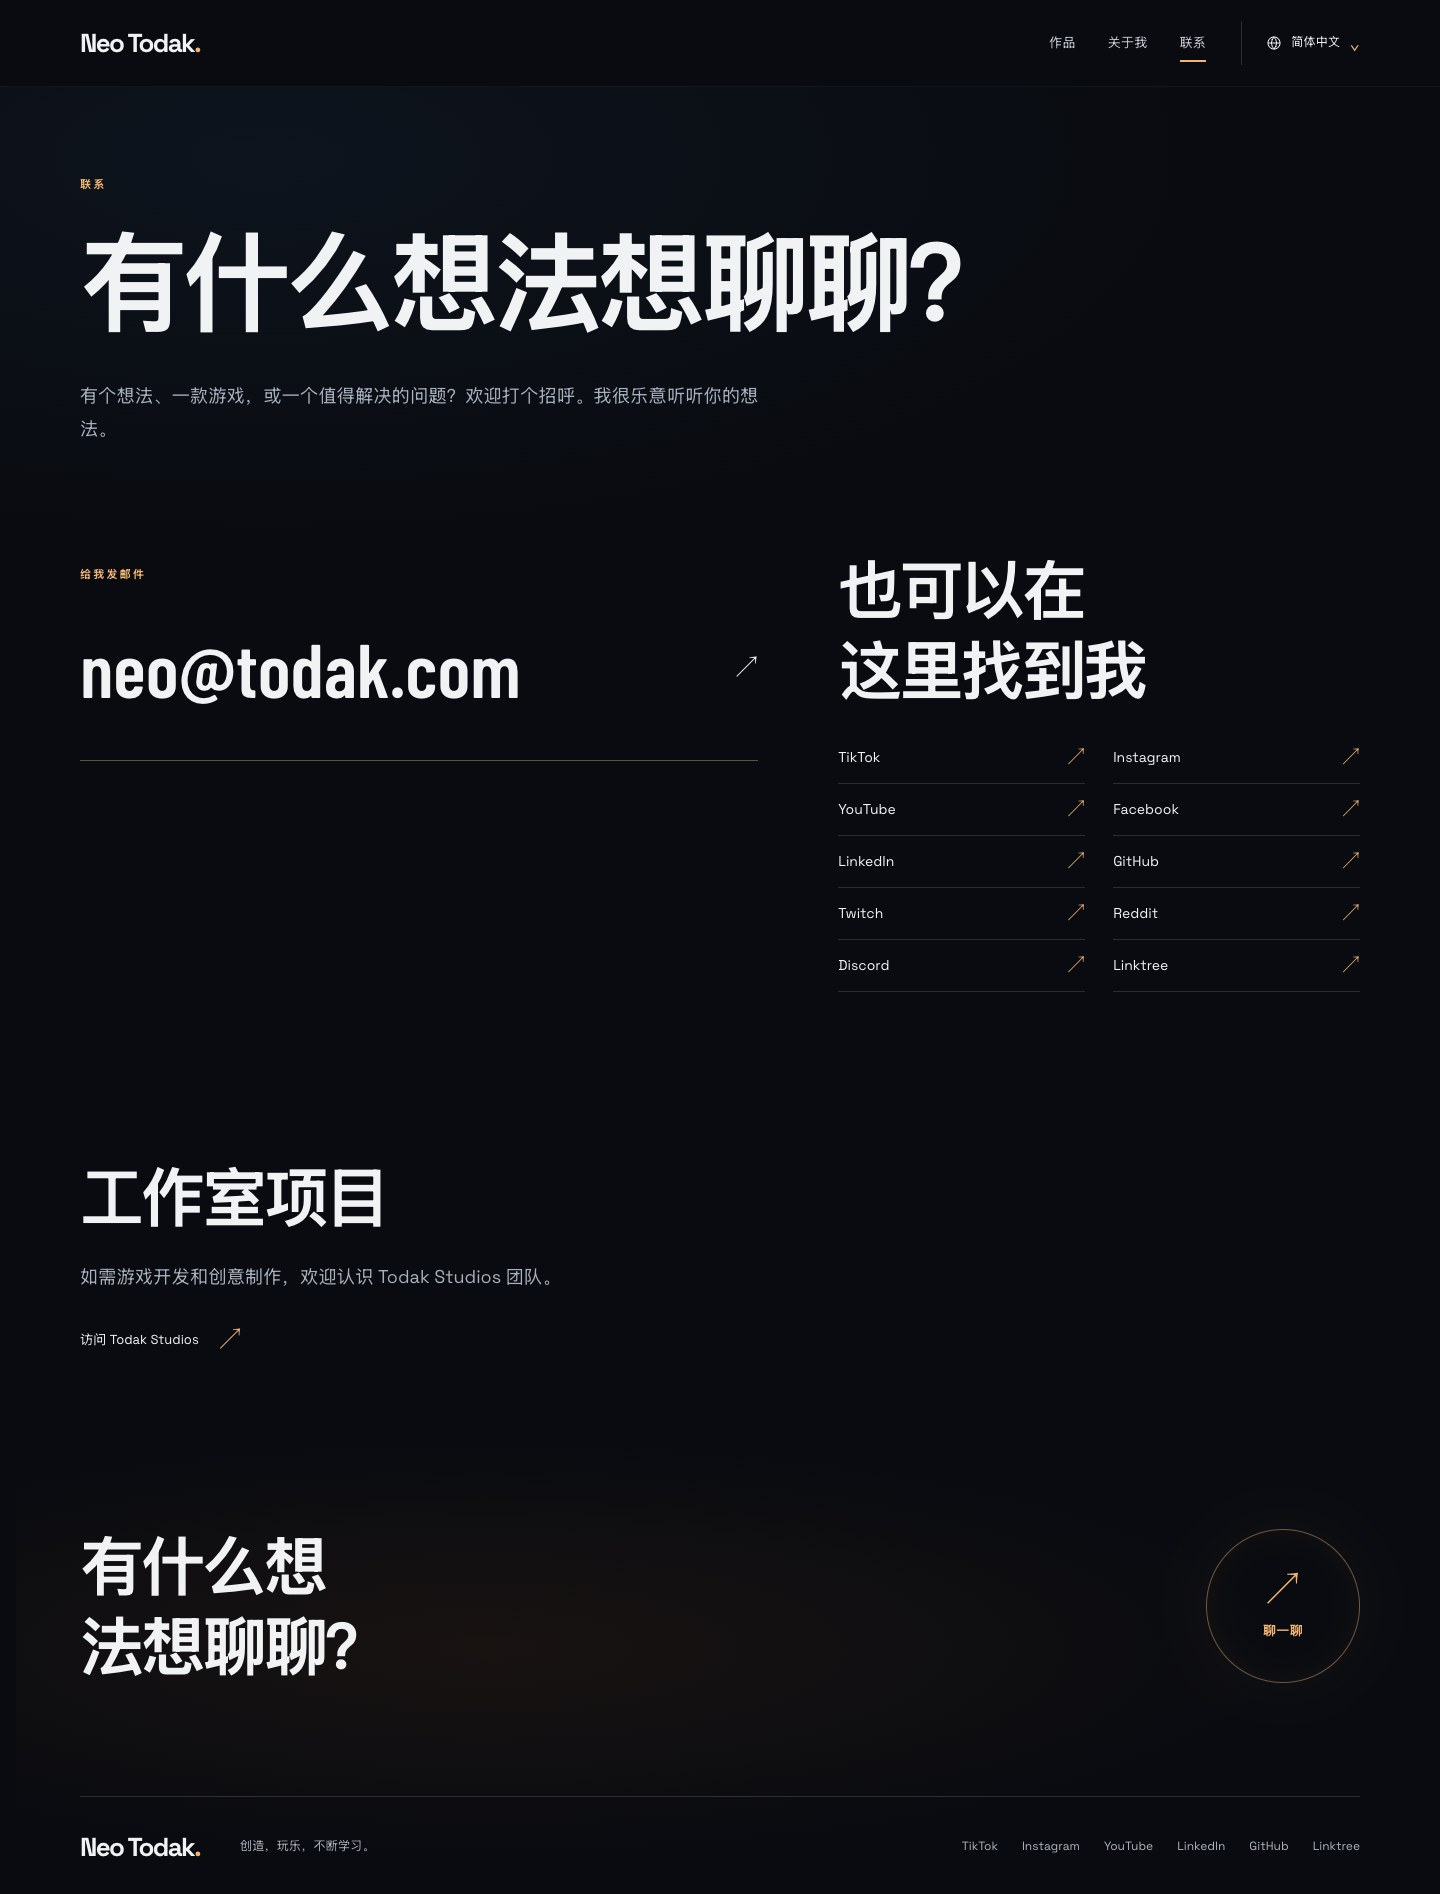
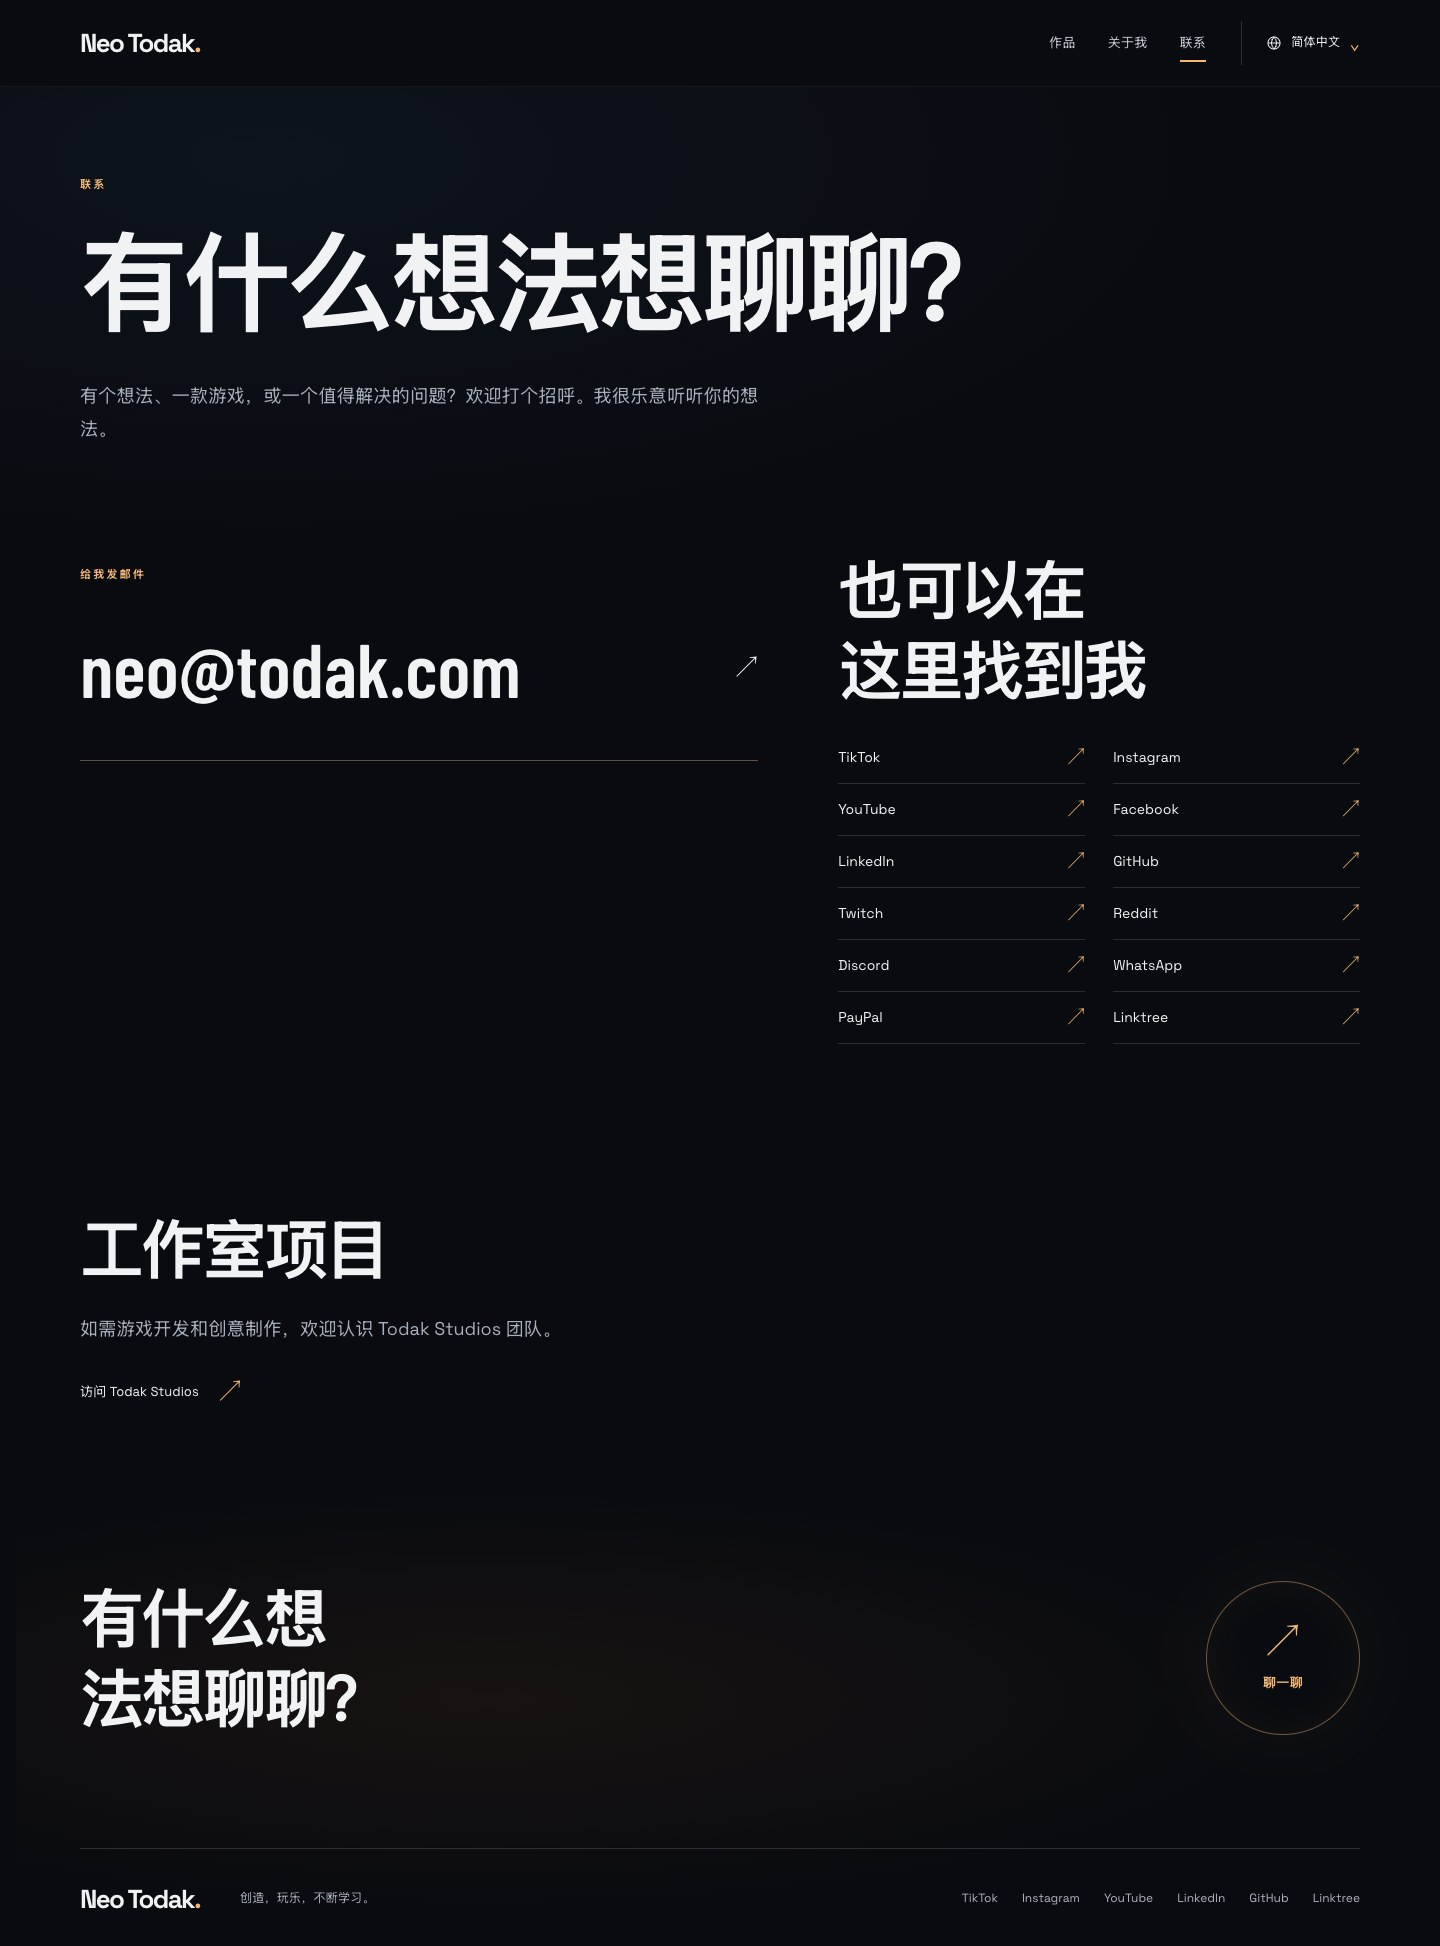
Include approved WhatsApp and PayPal contacts

diff --git a/lib/portfolio/contact.ts b/lib/portfolio/contact.ts
@@ -12,5 +12,7 @@ export const socialLinks = [
   { name: 'Twitch', href: 'https://www.twitch.tv/broneotodak', footer: false },
   { name: 'Reddit', href: 'https://www.reddit.com/user/neotodak/', footer: false },
   { name: 'Discord', href: 'https://discord.gg/neMBzFkFf9', footer: false },
+  { name: 'WhatsApp', href: 'https://api.whatsapp.com/send?phone=60177519610', footer: false },
+  { name: 'PayPal', href: 'https://paypal.me/neotodak', footer: false },
   { name: 'Linktree', href: 'https://linktr.ee/broneotodak', footer: true },
 ] as const

diff --git a/docs/social-links/README.md b/docs/social-links/README.md
@@ -2,11 +2,11 @@
 
 Neo asked to add the contacts missing from the current portfolio and supplied [his Linktree](https://linktr.ee/broneotodak). The public page's hydrated profile data contains more accounts than its initial HTML anchors. The update uses those exact account destinations, plus the GitHub profile already on the portfolio.
 
-The four translated contact pages show TikTok, Instagram, YouTube, Facebook, LinkedIn, GitHub, Twitch, Reddit, Discord and Linktree. The footer shows six compact links: TikTok, Instagram, YouTube, LinkedIn, GitHub and Linktree. Existing email and studio contacts remain. Brand names stay the same in each language; headings and navigation labels use the existing translations.
+The four translated contact pages show TikTok, Instagram, YouTube, Facebook, LinkedIn, GitHub, Twitch, Reddit, Discord, WhatsApp, PayPal and Linktree. The footer shows six compact links: TikTok, Instagram, YouTube, LinkedIn, GitHub and Linktree. Existing email and studio contacts remain. Brand names stay the same in each language; headings and navigation labels use the existing translations.
 
 Links are plain server-rendered anchors, with no embeds, social SDKs or additional client JavaScript. The existing cinematic design remains. Contact links use two columns, and the phone footer uses two rows of three. The email size adapts to 320px screens.
 
-WhatsApp and PayPal also appear on Linktree. They are not included in this preview while Neo's preference is pending; neither is required for the social-profile list above.
+Neo explicitly approved including both the public WhatsApp contact and PayPal link on 2026-09-21. The WhatsApp destination matches Linktree; PayPal uses the same account without the optional country/language query parameters, so it does not force English for visitors using other languages.
 
 ## Source and destination checklist
 
@@ -24,6 +24,8 @@ Checked 2026-09-21 MYT using public HTTP GET requests. A successful HTTP respons
 | Twitch | <https://www.twitch.tv/broneotodak> | Linktree account match; HTTP 200 app shell; manual channel check recommended |
 | Reddit | <https://www.reddit.com/user/neotodak/> | Linktree account match; HTTP 403 restriction; manual profile check pending |
 | Discord | <https://discord.gg/neMBzFkFf9> | HTTP 200; public invite API confirms “TODAK® COMMUNITY”, no expiration. This is a community invitation, not a personal DM link |
+| WhatsApp | <https://api.whatsapp.com/send?phone=60177519610> | Neo approved publication; matches Linktree; HTTP 200, title “Share on WhatsApp”; no message sent |
+| PayPal | <https://paypal.me/neotodak> | Neo approved publication; matches Linktree account; redirects to `https://www.paypal.com/paypalme/neotodak`, HTTP 200; no payment initiated |
 | Linktree | <https://linktr.ee/broneotodak> | HTTP 200, matching public profile |
 
 ## Review evidence
